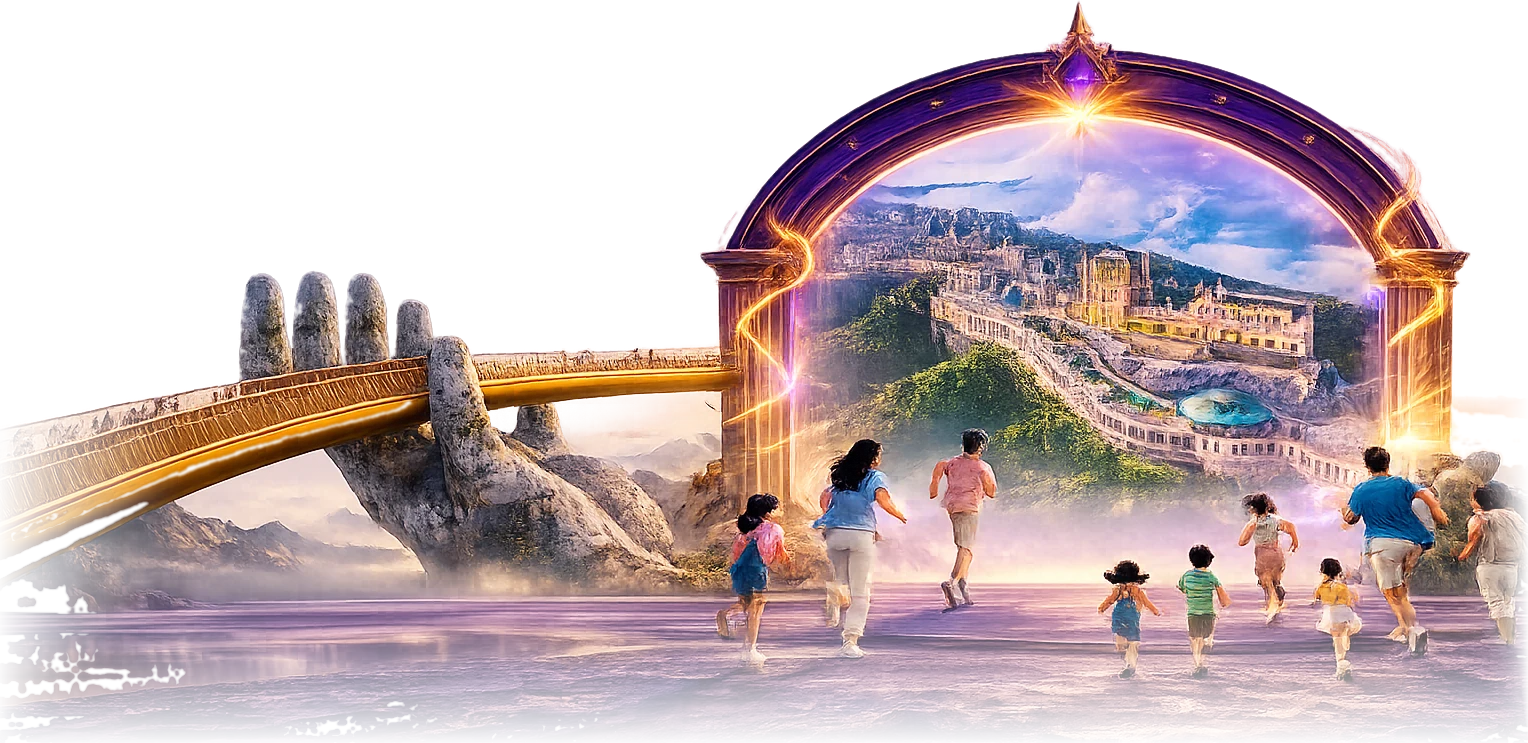
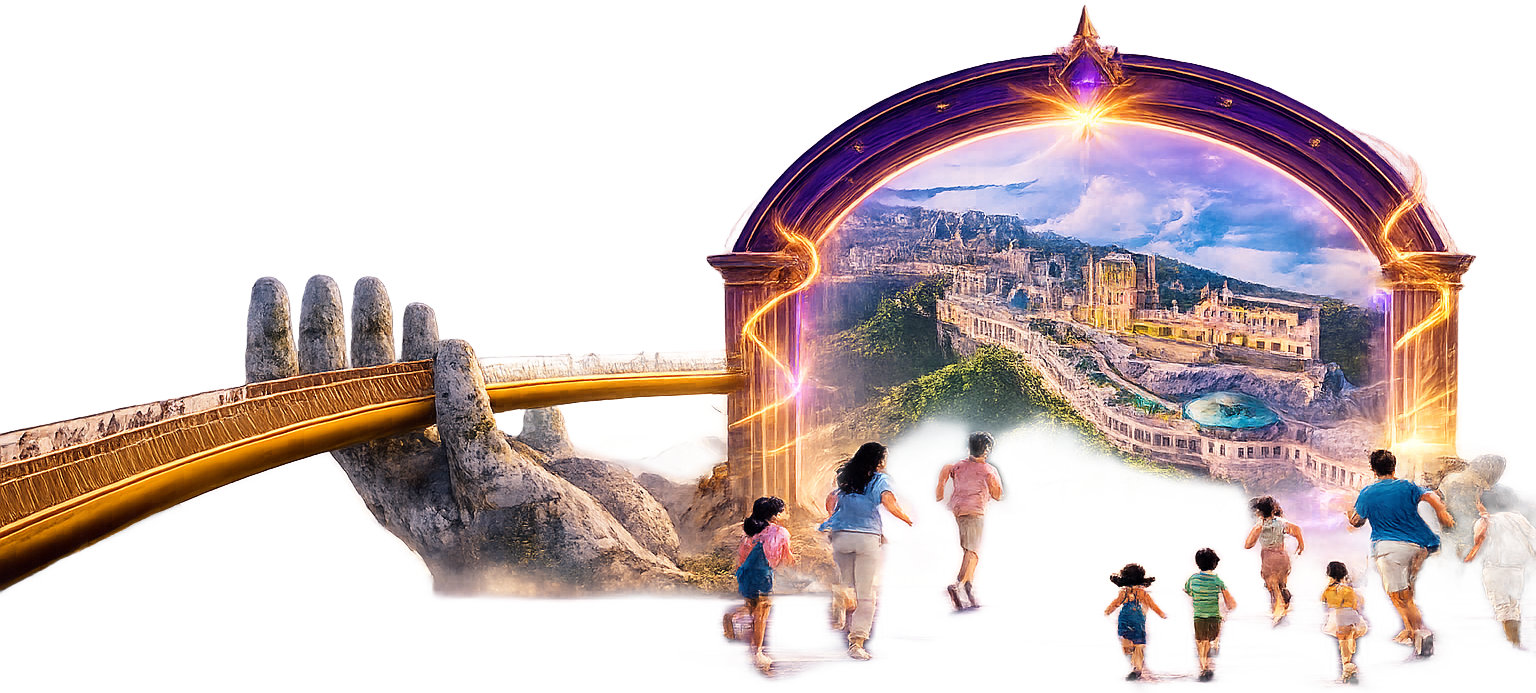
fix: настоящая вырезка Ба На — сегментация rembg вместо пороговой заливки
Прежний файл вырезкой не был. Заливка от границ снимала только небо, а вся
нижняя половина оставалась сплошной непрозрачной плитой земли с дымкой —
именно она читалась заплаткой. Отделить фигуры от нарисованной земли
порогом нельзя, нужна модель.

Установлен rembg, маска — максимум двух моделей: isnet-general-use держит
силуэт (все девять фигур, арка, мост, руки), но выбеливает город внутри
портала; u2net город сохраняет, но подъедает фигуры. Объединение даёт и то,
и другое. Кадр по альфе 1536x693, пропорция 2.216, прозрачно 52.3% площади.
webp 309КБ, рядом png 1.8МБ для проверки глазом. Версия пути поднята до v=2.

diff --git a/index.html b/index.html
@@ -557,15 +557,17 @@
        продуктовое фото у Apple. Прямоугольной подложки у него нет вовсе,
        поэтому подгонять фоны больше не нужно: блок просвечивает сквозь кадр
        на любом цвете.
-       Как сделана вырезка (Pillow): заливка от всех четырёх границ файла с
-       допуском 34 снимает связный внешний фон — небо, дымку, плоскость земли
-       по краям, 51.6% площади; то, что заключено внутри арки и фигур, заливка
-       не трогает. Кромка маски размыта на 1.2px. Оставшаяся плита земли под
-       фигурами прямоугольная, её периметр растворён: спад альфы на 12% ширины
-       слева, 3% справа и 16% высоты снизу, размытие 14px. Справа спад именно
-       3%, а не 6% — при 6% подъедало крайние фигуры. Кадрирование по альфе:
-       1528x743, пропорция 2.057. Формат webp с альфой, а не png: то же
-       прозрачное поле, но 439КБ вместо ~3МБ.
+       Как сделана вырезка: сегментация rembg, объединение двух моделей.
+       Пороговая заливка от границ (первый заход) не годилась в принципе —
+       она сняла только небо, а вся нижняя половина файла оставалась сплошной
+       непрозрачной плитой земли с дымкой; именно она и читалась заплаткой.
+       Отделить фигуры от нарисованной земли порогом нельзя, нужна модель.
+       isnet-general-use держит силуэт: все девять бегущих фигур, арка, мост,
+       руки — но выбеливает город внутри портала. u2net город сохраняет, но
+       подъедает часть фигур. Маска — поэлементный максимум обеих: силуэт от
+       isnet, внутренность арки от u2net. Кадрирование по альфе 1536x693,
+       пропорция 2.216, прозрачно 52.3% площади. Формат webp с альфой (309КБ),
+       рядом лежит тот же результат в png (1.8МБ) для проверки глазом.
        Что уже проверено и не подходит: cover в остаток высоты (бокс 3.62
        против кадра 2.053) срезает верх арки; увеличение высоты блока ломает
        принцип «секция в экран»; текст поверх кадра требует левого выравнивания
@@ -1662,7 +1664,7 @@
       <!-- ?v=1 — версия пути. Без неё браузер держал в кэше прежний
            bana-gate.webp с непрозрачным фоном и не показывал вырезку при
            обычном обновлении. При замене файла версию поднимать. -->
-      <img src="images/bana-gate-cutout.webp?v=1" alt="Ба На Хиллс — Золотой мост и врата" decoding="async" loading="lazy" />
+      <img src="images/bana-gate-cutout.webp?v=2" alt="Ба На Хиллс — Золотой мост и врата" decoding="async" loading="lazy" />
     </div>
   </section>
 
